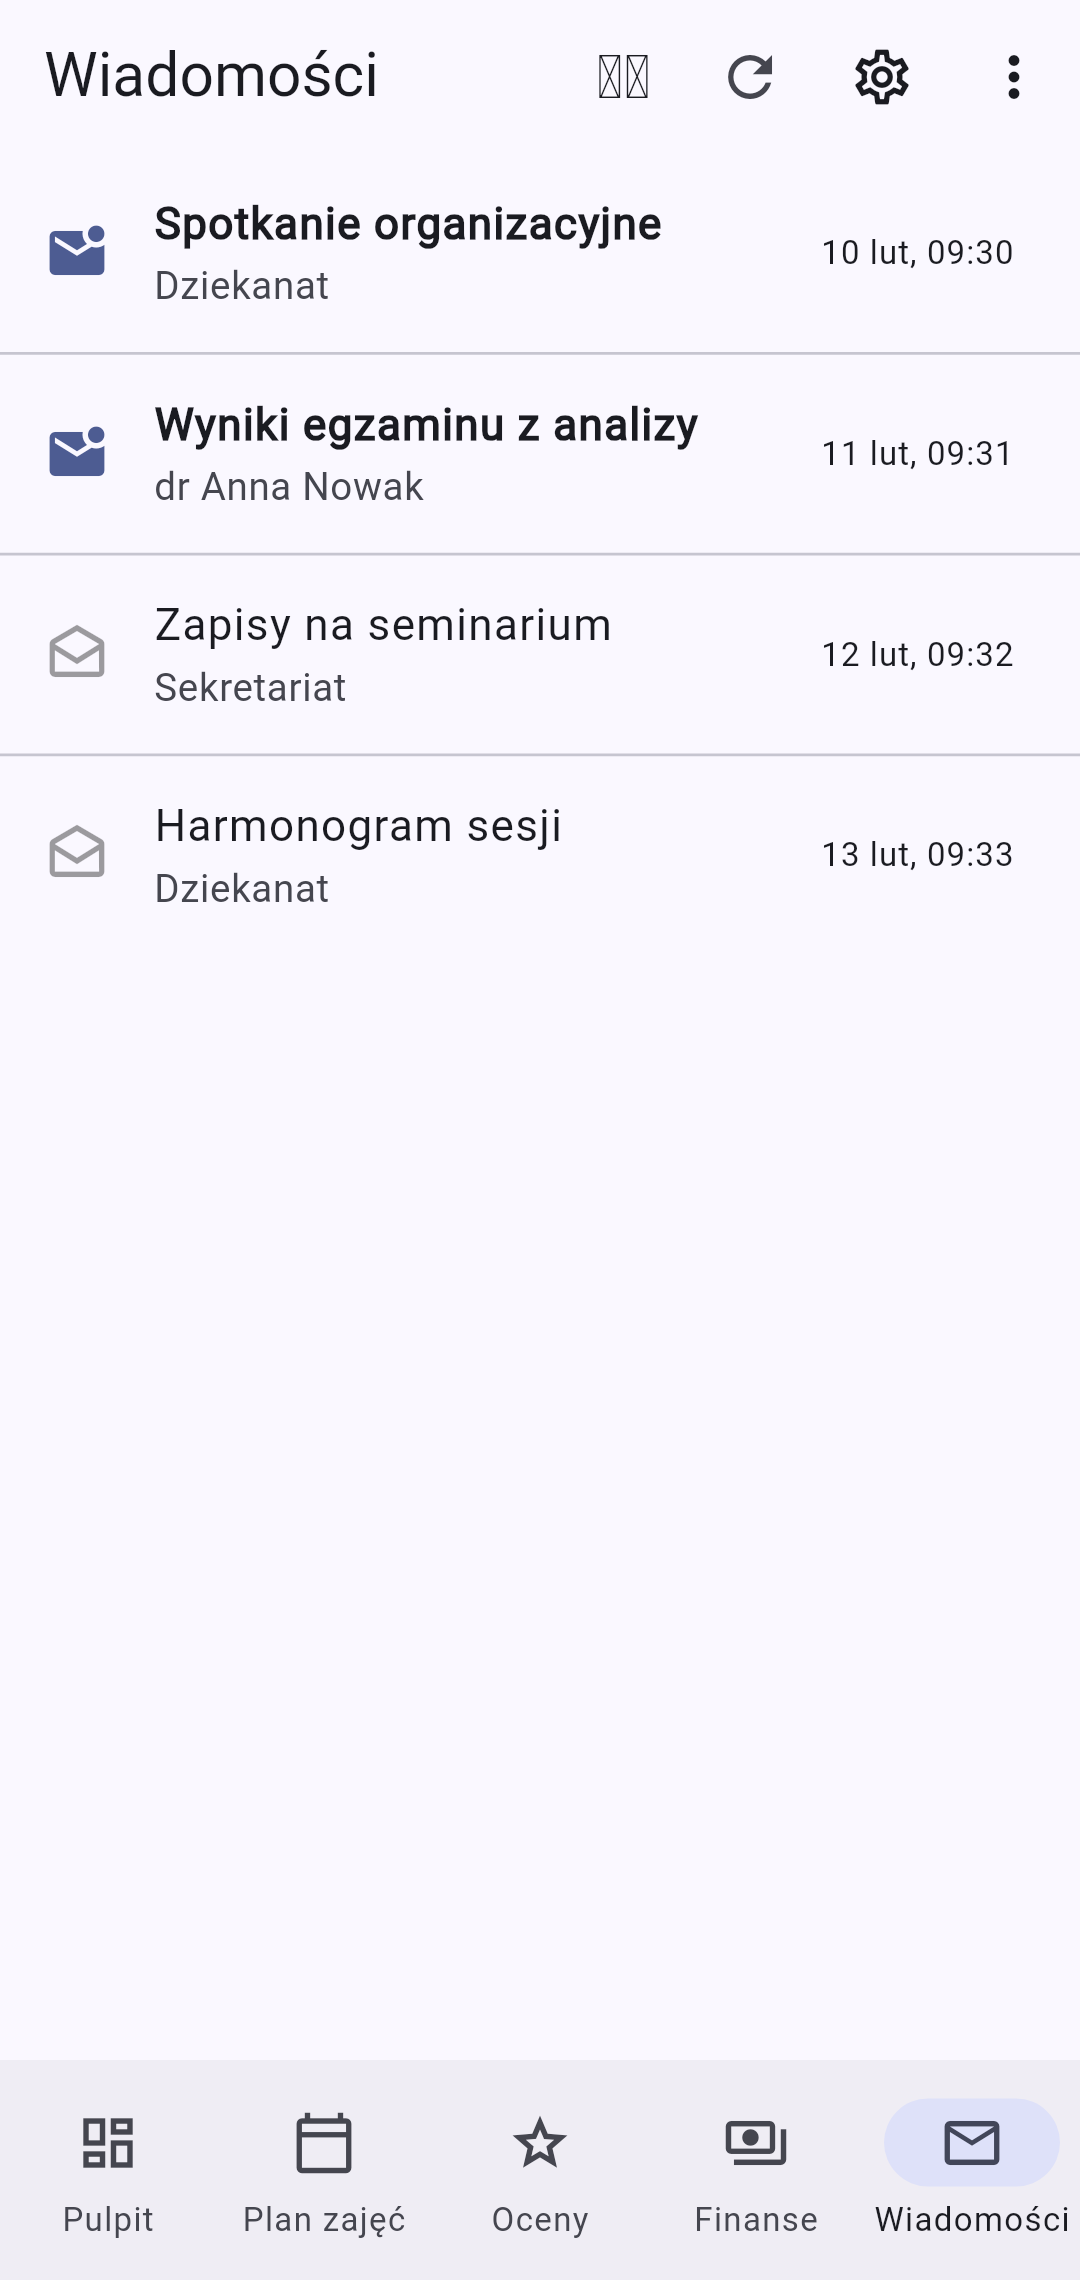
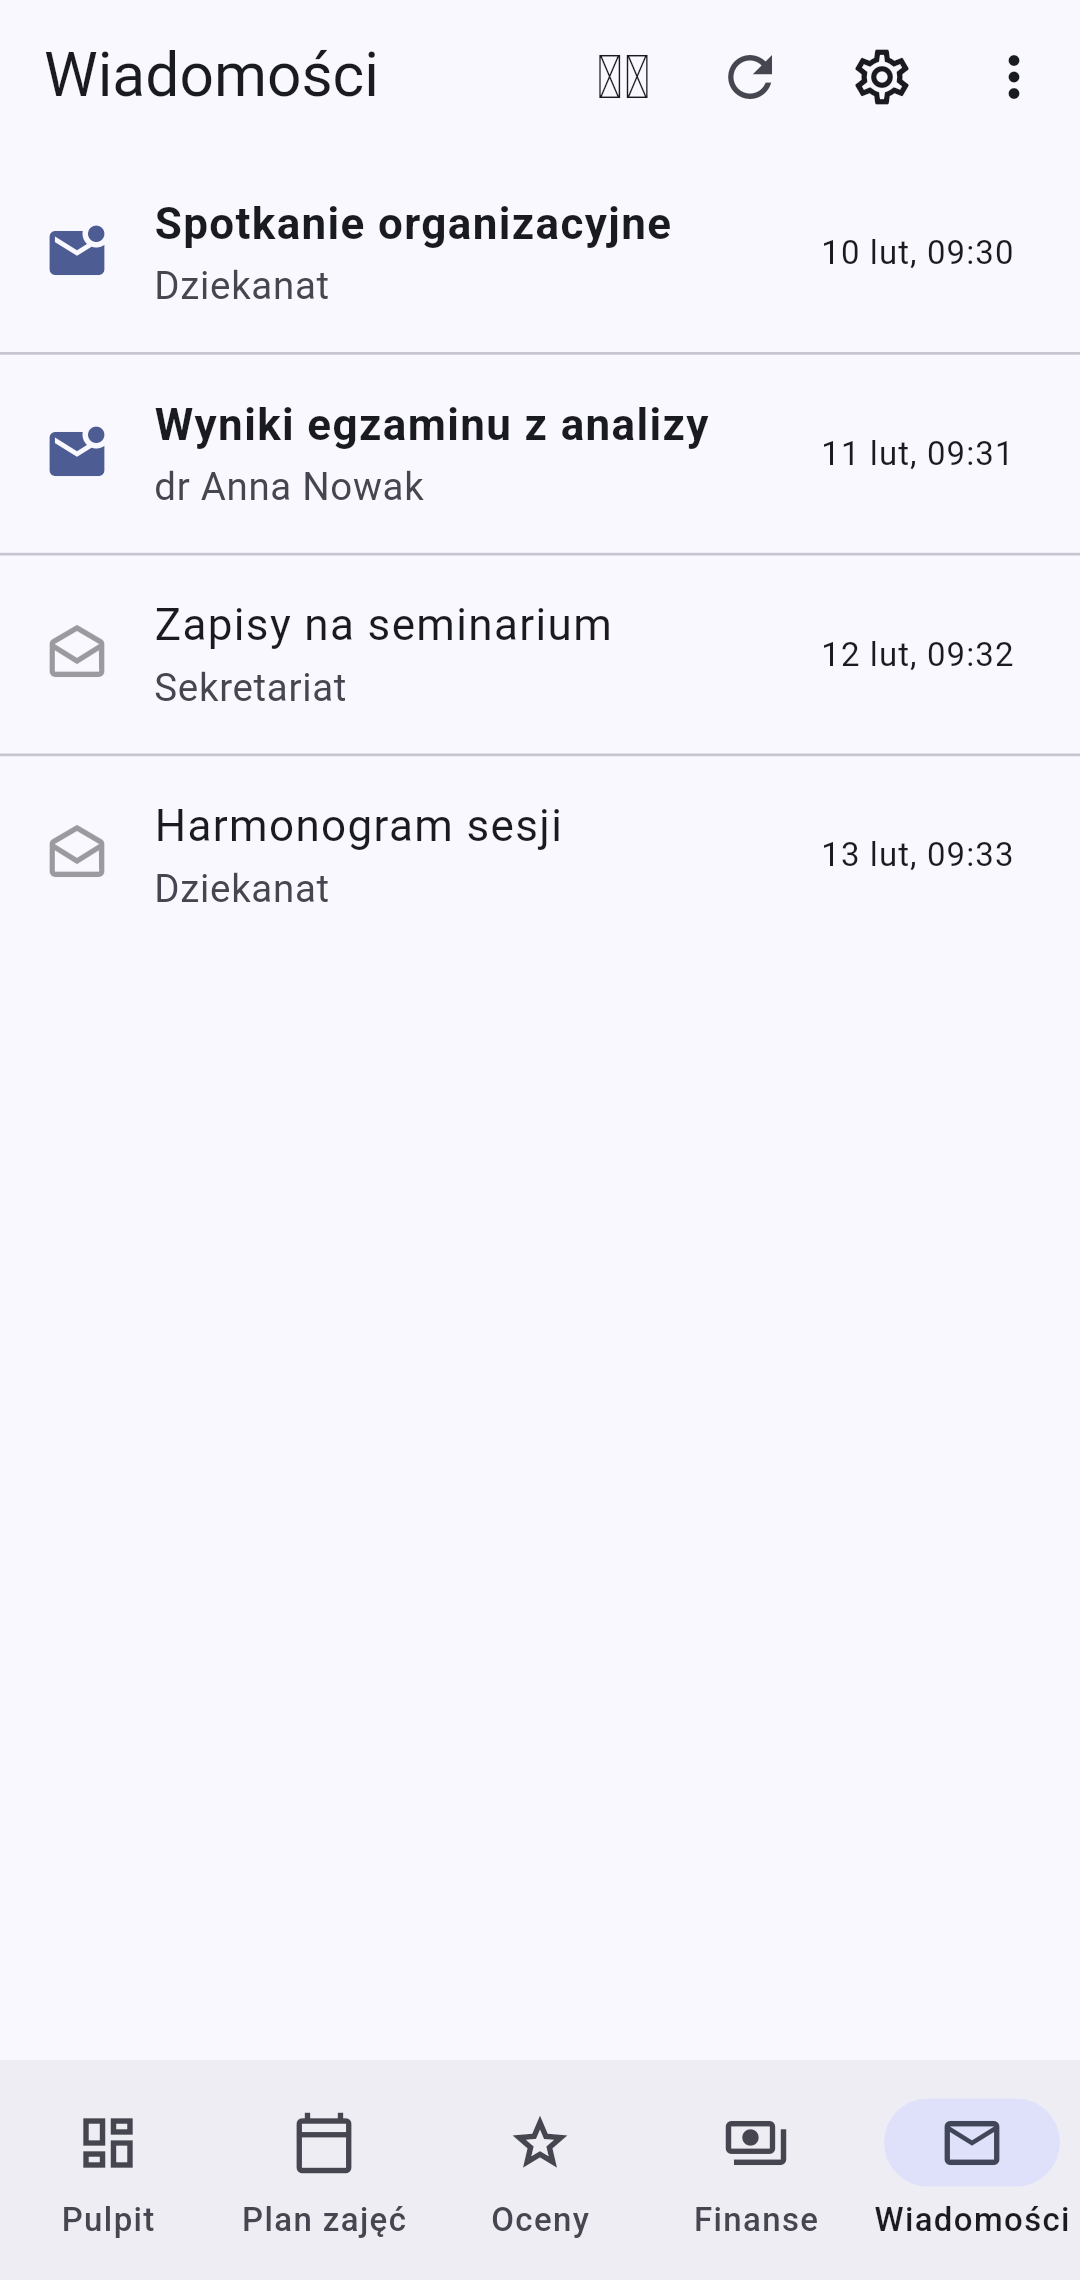
docs: dark-theme & English screenshots, rendered with real Roboto font
- screenshot harness now loads Roboto (Apache-2.0; kept out of the repo) and
  generates PL/EN × light/dark variants via a mocked path_provider
- READMEs showcase dark theme and the English interface

diff --git a/app/test/screenshots_test.dart b/app/test/screenshots_test.dart
@@ -1,16 +1,21 @@
 // Generates app screenshots headlessly with mock data (no network, no account).
+// Uses the real Android UI font (Roboto, Apache-2.0, loaded from test/fonts/).
 // Run:  flutter test test/screenshots_test.dart
-// Output: ../screenshots/*.png (phone resolution).
+// Output: ../screenshots/*.png  (phone resolution, light/dark, PL/EN).
 import 'dart:io';
+import 'dart:typed_data';
 import 'dart:ui' as ui;
 
 import 'package:flutter/material.dart';
 import 'package:flutter/rendering.dart';
+import 'package:flutter/services.dart';
 import 'package:flutter_localizations/flutter_localizations.dart';
 import 'package:flutter_test/flutter_test.dart';
 import 'package:golden_toolkit/golden_toolkit.dart';
 import 'package:intl/date_symbol_data_local.dart';
 import 'package:intl/intl.dart';
+import 'package:path_provider_platform_interface/path_provider_platform_interface.dart';
+import 'package:plugin_platform_interface/plugin_platform_interface.dart';
 import 'package:provider/provider.dart';
 import 'package:shared_preferences/shared_preferences.dart';
 
@@ -22,11 +27,30 @@ import 'package:kulindeks/state/session_store.dart';
 import 'package:kulindeks/state/settings.dart';
 import 'package:kulindeks/ui/home_screen.dart';
 
+class _FakePathProvider extends PathProviderPlatform with MockPlatformInterfaceMixin {
+  final String dir;
+  _FakePathProvider(this.dir);
+  @override
+  Future<String?> getApplicationSupportPath() async => dir;
+  @override
+  Future<String?> getTemporaryPath() async => dir;
+  @override
+  Future<String?> getApplicationDocumentsPath() async => dir;
+}
+
 String _d(DateTime d) =>
     '${d.day.toString().padLeft(2, '0')}-${d.month.toString().padLeft(2, '0')}-${d.year}';
 
+Future<void> _loadRoboto() async {
+  final loader = FontLoader('Roboto');
+  for (final f in ['Roboto-Regular.ttf', 'Roboto-Medium.ttf', 'Roboto-Bold.ttf']) {
+    final bytes = File('test/fonts/$f').readAsBytesSync();
+    loader.addFont(Future.value(ByteData.sublistView(bytes)));
+  }
+  await loader.load();
+}
+
 Future<AppState> _mockState() async {
-  SharedPreferences.setMockInitialValues({});
   final state = AppState(
       SessionStore(), await JsonCache.open(), SettingsStore(), NotificationService());
   state.status = AuthStatus.loggedIn;
@@ -35,9 +59,7 @@ Future<AppState> _mockState() async {
   state.semestr = 3;
 
   state.info.value = {
-    'imie': 'Jan',
-    'drugieImie': 'Maria',
-    'nazwisko': 'Kowalski',
+    'imie': 'Jan', 'drugieImie': 'Maria', 'nazwisko': 'Kowalski',
     'numerAlbumu': '123456',
   };
   state.kierunki.value = [
@@ -50,7 +72,6 @@ Future<AppState> _mockState() async {
     Semestr.fromJson({'id': 3, 'nazwa': 'Semestr 3', 'semestr': 3, 'aktywny': true}),
   ];
 
-  // grades
   final subjects = [
     ['Analiza matematyczna', 'Wykład', '4.5', 6.0],
     ['Programowanie obiektowe', 'Ćwiczenia laboratoryjne', '5.0', 5.0],
@@ -69,7 +90,6 @@ Future<AppState> _mockState() async {
       }),
   ];
 
-  // timetable — this week, so "next class" shows
   final monday = DateTime.now().subtract(Duration(days: DateTime.now().weekday - 1));
   final plan = [
     [0, 'Pon.', '08:00', '09:30', 'Analiza matematyczna', 'Wykład'],
@@ -93,7 +113,6 @@ Future<AppState> _mockState() async {
       }),
   ];
 
-  // finances
   state.dues.value = [
     Naleznosc.fromJson({
       'idFinanse': 1, 'rodzaj': 'Czesne', 'typ': 'Opłata', 'tytul': 'Czesne — semestr zimowy',
@@ -105,7 +124,6 @@ Future<AppState> _mockState() async {
     }),
   ];
 
-  // messages
   final msgs = [
     ['Spotkanie organizacyjne', 'Dziekanat', false],
     ['Wyniki egzaminu z analizy', 'dr Anna Nowak', false],
@@ -122,15 +140,17 @@ Future<AppState> _mockState() async {
   return state;
 }
 
-Widget _app(AppState state) => ChangeNotifierProvider<AppState>.value(
+Widget _app(AppState state, Brightness b) => ChangeNotifierProvider<AppState>.value(
       value: state,
       child: MaterialApp(
         debugShowCheckedModeBanner: false,
         theme: ThemeData(
-          colorScheme: ColorScheme.fromSeed(seedColor: const Color(0xFF2962FF)),
+          colorScheme: ColorScheme.fromSeed(
+              seedColor: const Color(0xFF2962FF), brightness: b),
           useMaterial3: true,
+          fontFamily: 'Roboto',
         ),
-        locale: const Locale('pl'),
+        locale: Locale(state.prefs.locale),
         supportedLocales: const [Locale('pl'), Locale('en')],
         localizationsDelegates: const [
           GlobalMaterialLocalizations.delegate,
@@ -143,9 +163,14 @@ Widget _app(AppState state) => ChangeNotifierProvider<AppState>.value(
 
 void main() {
   setUpAll(() async {
+    final tmp = Directory.systemTemp.createTempSync('kul_ss').path;
+    PathProviderPlatform.instance = _FakePathProvider(tmp);
+    SharedPreferences.setMockInitialValues({});
     Intl.defaultLocale = 'pl_PL';
     await initializeDateFormatting('pl_PL');
-    await loadAppFonts();
+    await initializeDateFormatting('en');
+    await loadAppFonts(); // MaterialIcons etc.
+    await _loadRoboto(); // real Android UI font
   });
 
   testWidgets('generate screenshots', (tester) async {
@@ -157,25 +182,39 @@ void main() {
     final state = await _mockState();
     Directory('../screenshots').createSync(recursive: true);
 
-    const tabs = {
-      0: 'dashboard',
-      1: 'timetable',
-      2: 'grades',
-      3: 'finance',
-      4: 'messages',
-    };
+    // (filename, tabIndex, locale, brightness)
+    final shots = <List<Object>>[
+      ['dashboard', 0, 'pl', Brightness.light],
+      ['timetable', 1, 'pl', Brightness.light],
+      ['grades', 2, 'pl', Brightness.light],
+      ['finance', 3, 'pl', Brightness.light],
+      ['messages', 4, 'pl', Brightness.light],
+      ['dashboard-dark', 0, 'pl', Brightness.dark],
+      ['timetable-dark', 1, 'pl', Brightness.dark],
+      ['grades-dark', 2, 'pl', Brightness.dark],
+      ['dashboard-en', 0, 'en', Brightness.light],
+      ['timetable-en', 1, 'en', Brightness.light],
+    ];
 
-    for (final entry in tabs.entries) {
-      state.tab = entry.key;
+    for (final s in shots) {
+      final name = s[0] as String;
+      final tab = s[1] as int;
+      final locale = s[2] as String;
+      final brightness = s[3] as Brightness;
+
+      if (state.prefs.locale != locale) {
+        await tester.runAsync(() => state.setLocale(locale));
+      }
+      state.tab = tab;
       final key = GlobalKey();
-      await tester.pumpWidget(RepaintBoundary(key: key, child: _app(state)));
+      await tester.pumpWidget(RepaintBoundary(key: key, child: _app(state, brightness)));
       await tester.pumpAndSettle(const Duration(milliseconds: 400));
       await tester.runAsync(() async {
         final boundary =
             key.currentContext!.findRenderObject()! as RenderRepaintBoundary;
         final image = await boundary.toImage(pixelRatio: 2.75);
         final bytes = await image.toByteData(format: ui.ImageByteFormat.png);
-        File('../screenshots/${entry.value}.png')
+        File('../screenshots/$name.png')
             .writeAsBytesSync(bytes!.buffer.asUint8List());
       });
     }

diff --git a/README.pl.md b/README.pl.md
@@ -64,8 +64,18 @@ Gdybyś chciał(a) ją usunąć, po prostu przytrzymaj ikonę aplikacji →
   <img src="screenshots/messages.png" width="180" alt="Wiadomości"/>
 </p>
 
-<sub>Zrzuty korzystają z danych przykładowych i są generowane przez
-`app/test/screenshots_test.dart`.</sub>
+**Motyw ciemny i interfejs angielski:**
+
+<p align="center">
+  <img src="screenshots/dashboard-dark.png" width="180" alt="Pulpit (ciemny)"/>
+  <img src="screenshots/timetable-dark.png" width="180" alt="Plan zajęć (ciemny)"/>
+  <img src="screenshots/grades-dark.png" width="180" alt="Oceny (ciemny)"/>
+  <img src="screenshots/dashboard-en.png" width="180" alt="Pulpit (angielski)"/>
+  <img src="screenshots/timetable-en.png" width="180" alt="Plan zajęć (angielski)"/>
+</p>
+
+<sub>Zrzuty korzystają z danych przykładowych i prawdziwej czcionki Androida
+(Roboto); generowane przez `app/test/screenshots_test.dart`.</sub>
 
 ---
 

diff --git a/README.md b/README.md
@@ -64,8 +64,18 @@ any other app. Nothing is left behind.
   <img src="screenshots/messages.png" width="180" alt="Messages"/>
 </p>
 
-<sub>Screenshots use mock data and are generated from
-`app/test/screenshots_test.dart`.</sub>
+**Dark theme & English interface:**
+
+<p align="center">
+  <img src="screenshots/dashboard-dark.png" width="180" alt="Dashboard (dark)"/>
+  <img src="screenshots/timetable-dark.png" width="180" alt="Timetable (dark)"/>
+  <img src="screenshots/grades-dark.png" width="180" alt="Grades (dark)"/>
+  <img src="screenshots/dashboard-en.png" width="180" alt="Dashboard (English)"/>
+  <img src="screenshots/timetable-en.png" width="180" alt="Timetable (English)"/>
+</p>
+
+<sub>Screenshots use mock data and the real Android UI font (Roboto); generated
+from `app/test/screenshots_test.dart`.</sub>
 
 ---
 
